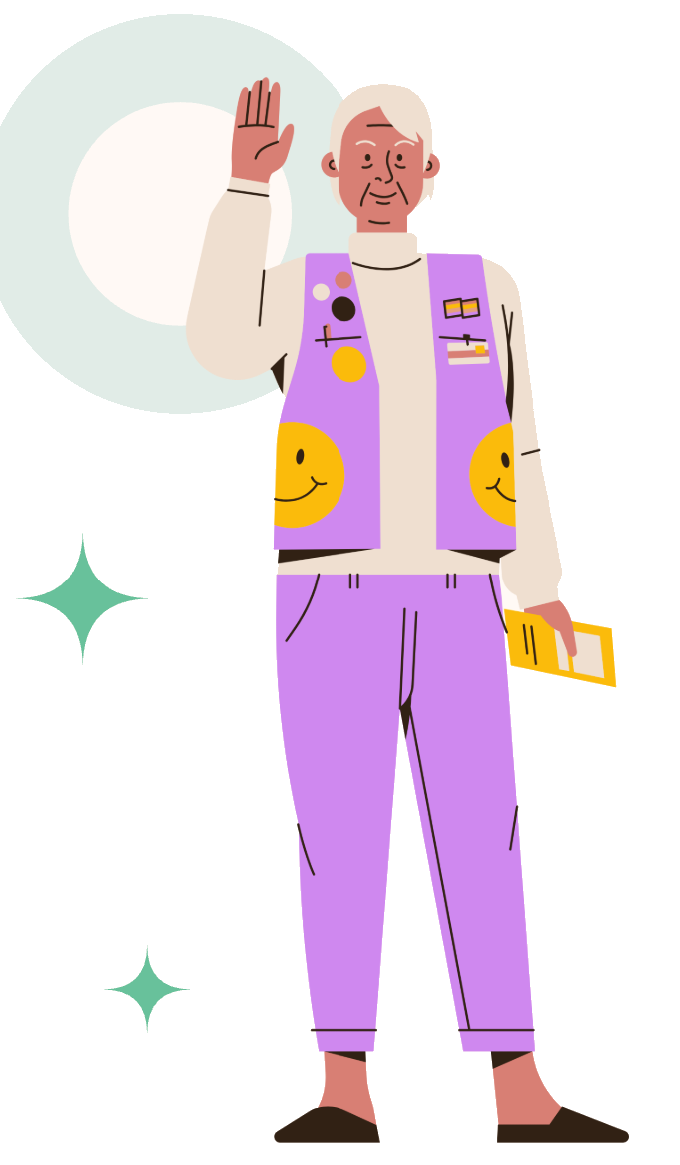
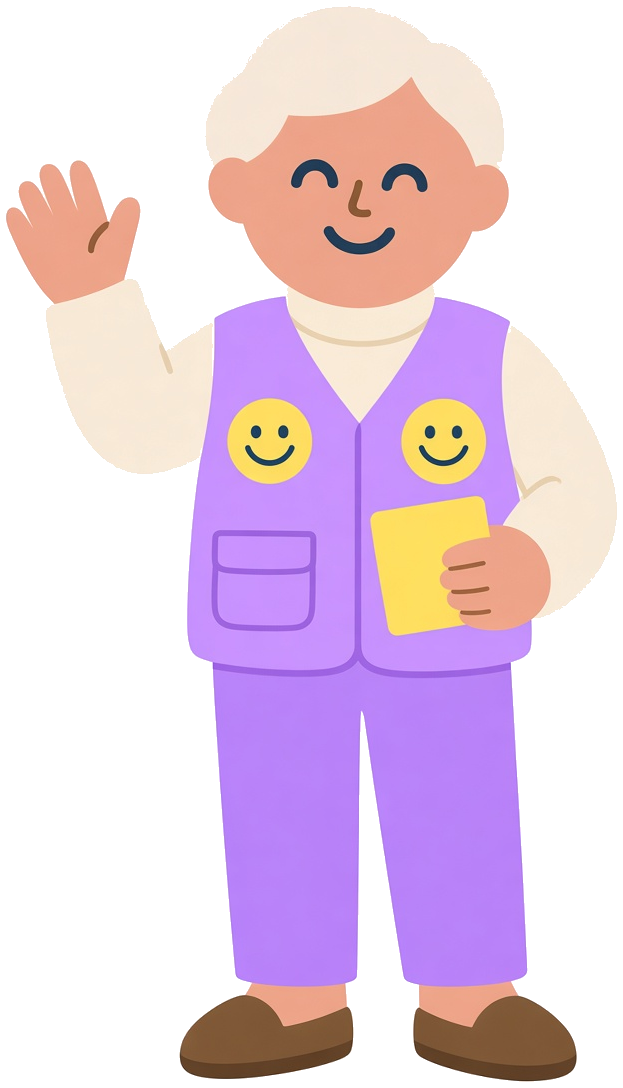
Replace uploaded character art with KakiConnect-style stickers
Generate new round-headed characters in the logo style for the role cards, volunteer welcome, Care Hub, and family quiet-home instead of dropping in the original illustrations.

diff --git a/app/elderly/profile/page.tsx b/app/elderly/profile/page.tsx
@@ -24,7 +24,7 @@ export default function ElderlyProfile() {
           <p className="mt-3 text-sm">{senior.languages.join(" · ")}</p>
           <p className="mt-1 text-sm text-muted-foreground">{senior.block}</p>
           <UiPic
-            src="/illustrations/person-wave.png"
+            src="/illustrations/person-point.png"
             alt=""
             className="mx-auto mt-3 h-32 w-auto object-contain object-bottom"
           />
